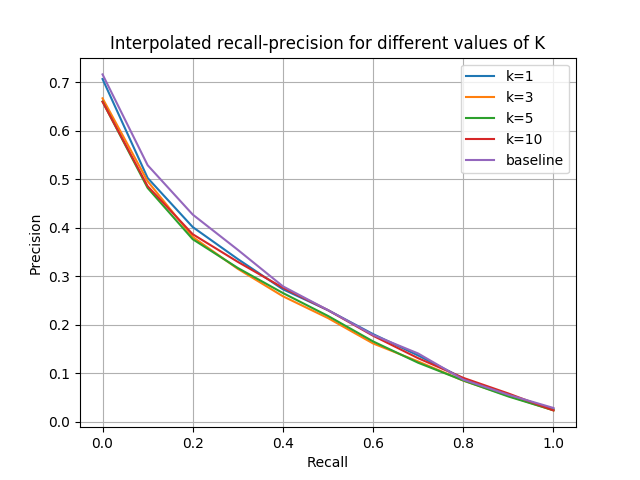
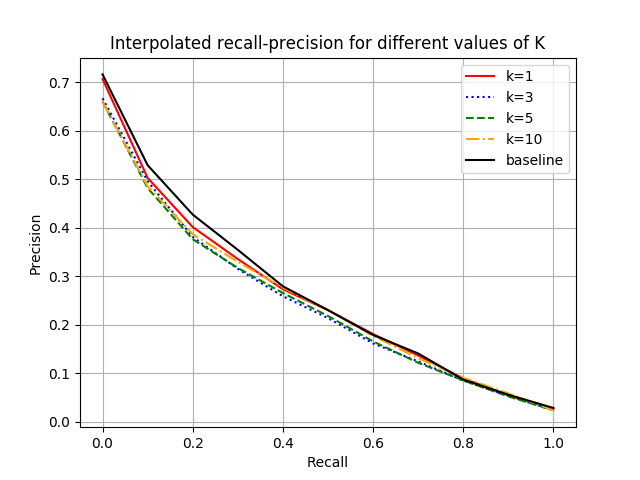
Plots now have a color scheme and different linestyles

Changed region(s): [[0.1562, 0.1562, 0.7812, 0.8125], [0.7812, 0.8125, 0.8438, 0.8438], [0.8438, 0.8438, 0.875, 0.875]]

diff --git a/experiment/generate_plots.py b/experiment/generate_plots.py
@@ -2,6 +2,8 @@ import matplotlib.pyplot as plt
 import numpy as np
 
 recall_vals = np.arange(1.1,step=0.1)
+linestyles = ["solid","dotted","dashed","dashdot"]
+colors = ["red","blue","green","orange"]
 
 def extract_iprec_vals(experiment, values, plot_baseline=False):
     iprec_vals = {}
@@ -27,11 +29,11 @@ def extract_iprec_vals(experiment, values, plot_baseline=False):
 def generate_iprec_plot(experiment, values, title, plot_baseline=False):
     exp_iprec_vals = extract_iprec_vals(experiment, values, plot_baseline)
 
-    for val in values:
+    for i,val in enumerate(values):
         if val=="baseline":
-            plt.plot(recall_vals, exp_iprec_vals["baseline"], label="baseline")
+            plt.plot(recall_vals, exp_iprec_vals["baseline"], label="baseline", color="black")
         else:
-            plt.plot(recall_vals,exp_iprec_vals[val],label=experiment+"="+str(val))
+            plt.plot(recall_vals, exp_iprec_vals[val], label=experiment+"="+str(val), linestyle=linestyles[i], color=colors[i])
     plt.xlabel("Recall")
     plt.ylabel("Precision")
     plt.title(title)
@@ -41,5 +43,5 @@ def generate_iprec_plot(experiment, values, title, plot_baseline=False):
     plt.show()
 
 generate_iprec_plot("k",[1,3,5,10], "Interpolated recall-precision for different values of K", True)
-generate_iprec_plot("filtermethod", ["none","duplicates","stopwords","both"], "Interpolated recall-precision for different filter methods")
+generate_iprec_plot("filtermethod", ["none","duplicates","stopwords","both"], "Interpolated recall-precision for different filter methods", True)
 generate_iprec_plot("method", ["api","index_body","index_title"], "Interpolated recall-precision for different Wikipedia-query methods", True)
